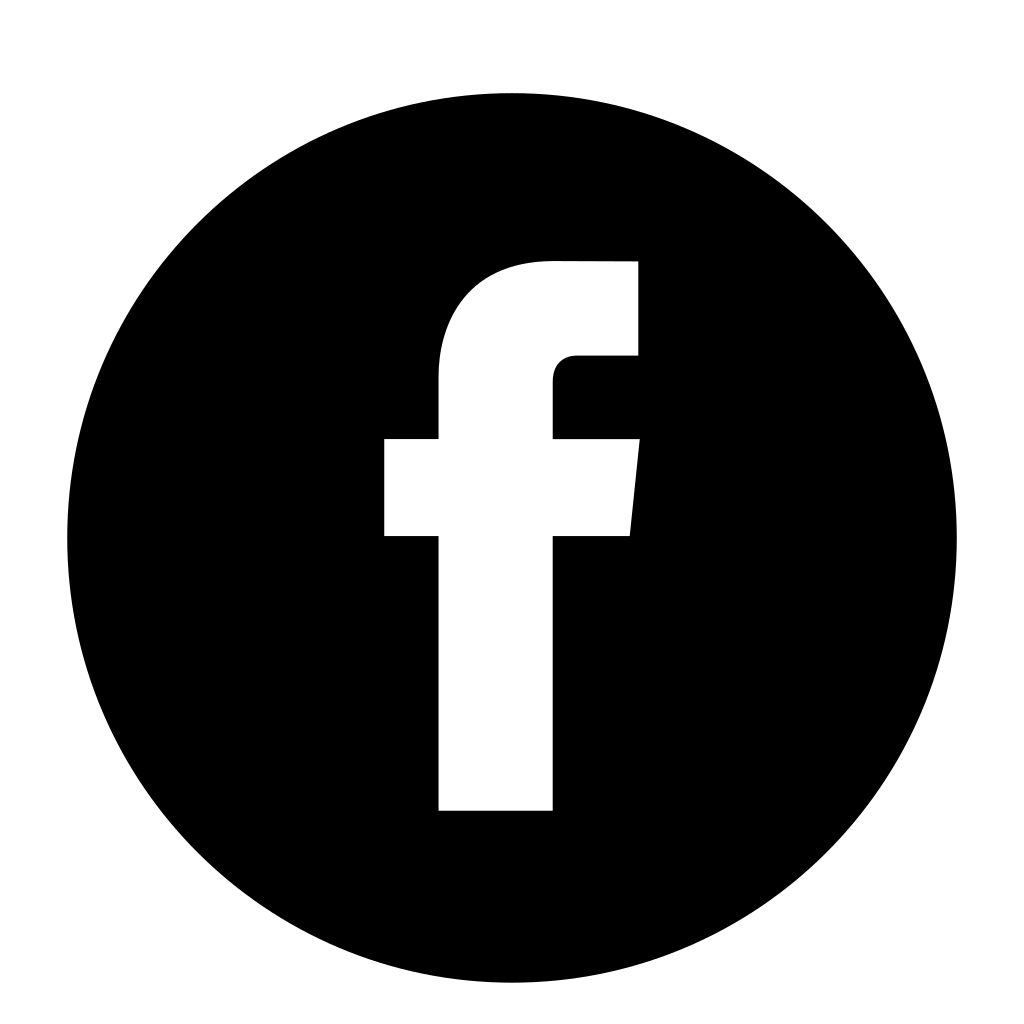
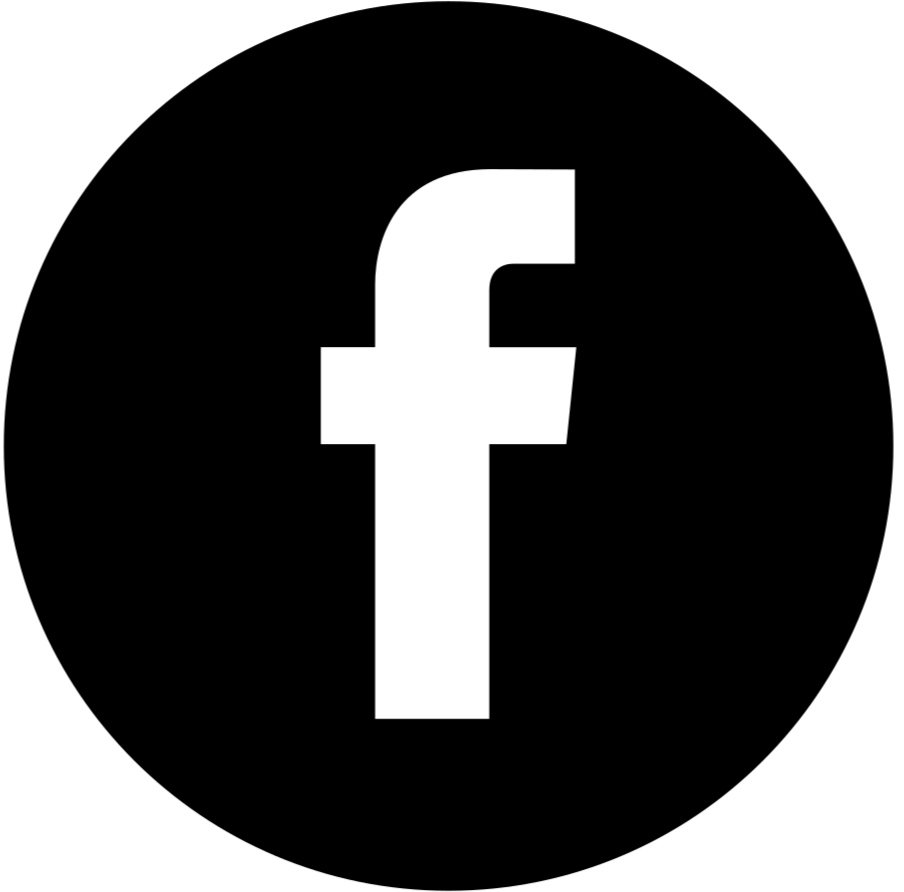
Added CSS and functionality to footer

Changed region(s): [[0.0, 0.0, 0.9912, 0.9989], [0.3407, 0.1816, 0.6504, 0.8173]]

diff --git a/index.html b/index.html
@@ -115,8 +115,19 @@
     </div>
 
     <footer>
-        <p>All content copyright © 2023, IRT Cornell.</p>
-        <p>This organization is a registered student organization of Cornell University.</p>
+        <a href="https://twitter.com/i/flow/login?redirect_after_login=%2Fintent%2Ftweet%3Ftext%3D6%2BEcon%2BStories%2Bfrom%2BLast%2BWeek%2521%3A%2520https%253A%252F%252Fmailchi.mp%252Fed8a723def42%252F6-econ-stories-from-last-week" class="twitter-button" id="twitter-button">
+            <!-- Source: Provided by Cornell IRT -->
+            <img src="images/twitter-icon.png" alt="Headshot of Joel Pang">
+        </a>
+        <a href="https://www.facebook.com/TheCornellEconomicsSociety/" class="facebook-button" id="facebook-button">
+            <!-- Source: Provided by Cornell IRT -->
+            <img src="images/facebook-icon.png" alt="Headshot of Joel Pang">
+        </a>
+        <a href="mailto:ces@cornell.edu" class="mail-button" id="mail-button">
+            <!-- Source: Provided by Cornell IRT -->
+            <img src="images/mail.svg" alt="Headshot of Joel Pang">
+        </a>
+        <p>This organization is a registered student organization of Cornell University. All content copyright © 2023, IRT Cornell.</p>
     </footer>
 
     <script src="scripts/jquery-3.7.1.js"></script>

diff --git a/styles/site.css b/styles/site.css
@@ -322,6 +322,7 @@ aside {
 
 footer {
     display: flex;
+    flex-direction: row;
     background-color: #6f6f6f;
     padding: 8px;
 }
@@ -331,6 +332,48 @@ footer p {
     padding-right: 10px;
     text-decoration: none;
     color:#000000;
+    margin-left: auto;
+    margin-right: 14px;
+    align-self: center;
+}
+
+.twitter-button {
+    background: rgba(0, 0, 0, 0);
+    border: none;
+
+    display: block;
+    padding: 8px;
+    margin: auto 4px;
+    border-radius: 4px;
+
+    width: 100px;
+    height: auto;
+}
+
+.facebook-button {
+    background: rgba(0, 0, 0, 0);
+    border: none;
+
+    display: block;
+    padding: 8px;
+    margin: auto 4px;
+    border-radius: 4px;
+
+    width: 100px;
+    height: auto;
+}
+
+.mail-button {
+    background: rgba(0, 0, 0, 0);
+    border: none;
+
+    display: block;
+    padding: 8px;
+    margin: auto 4px;
+    border-radius: 4px;
+
+    width: 100px;
+    height: auto;
 }
 
 @media (max-width: 900px) {
